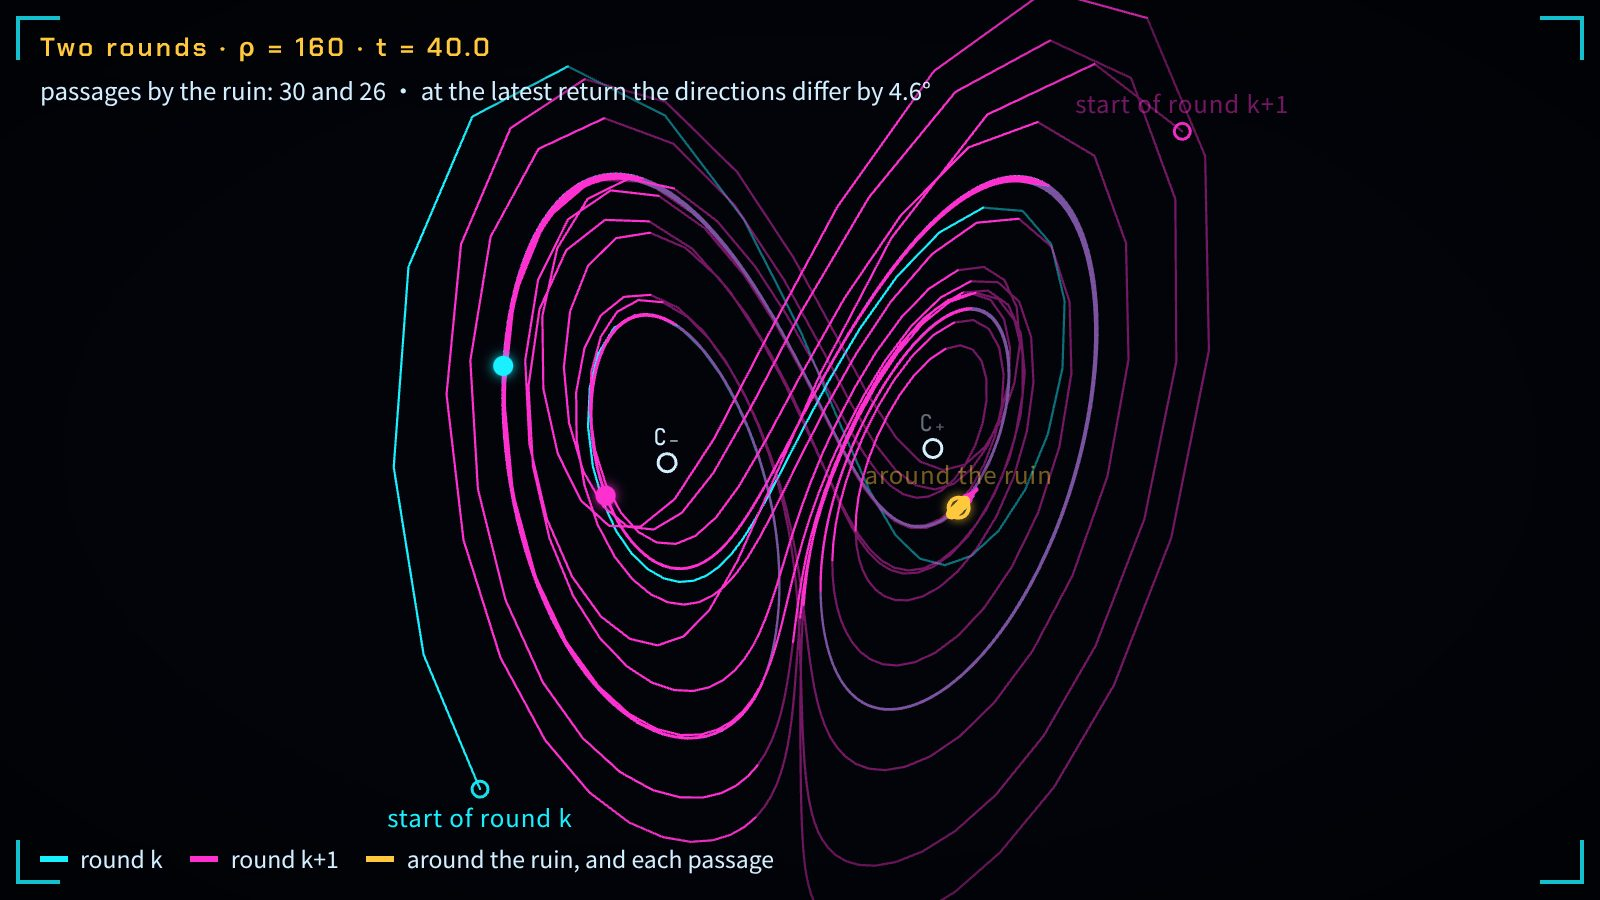
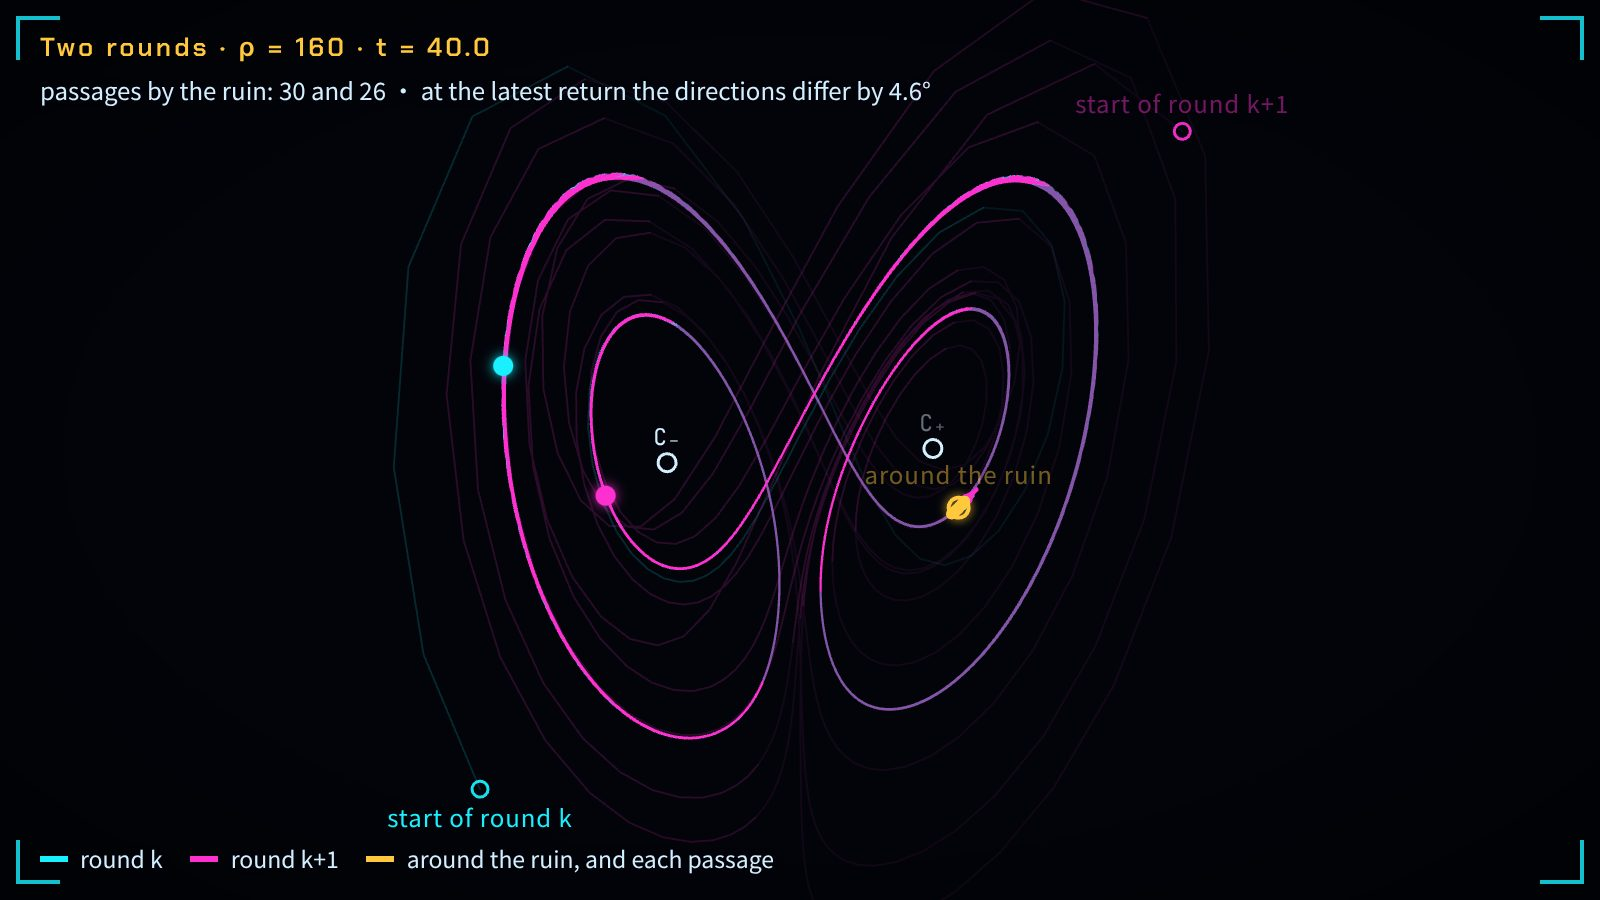
spatial-attractor-deja-vu: fade the transient on the cycle card; test the fixed, cycle and return stills against their captions

diff --git a/books/quantum-geometry/viz/spatial-attractor-deja-vu/main.js b/books/quantum-geometry/viz/spatial-attractor-deja-vu/main.js
@@ -13,7 +13,7 @@
   const { kit, L } = TRV, { fix, clamp } = kit, P = TRV.palette;
   const $ = (id) => document.getElementById(id);
   const SIG = 10, BETA = 8 / 3, H = 0.01, EPS = 2, TR = 40, TS = 2, TD = 100, NP = 500, DIV = -(SIG + 1 + BETA);
-  const S = { scene: 'rounds', rho: 28, seed: 0 };
+  const S = { scene: 'rounds', rho: 28, seed: 0, settle: 0 };   // settle: the time before which the rounds are drawn faint (a card's choice)
   const F = (p, rho) => [SIG * (p[1] - p[0]), p[0] * (rho - p[2]) - p[1], p[0] * p[1] - BETA * p[2]];
   function rk4(p, h, rho) {
     const k1 = F(p, rho), k2 = F([p[0] + h * k1[0] / 2, p[1] + h * k1[1] / 2, p[2] + h * k1[2] / 2], rho), k3 = F([p[0] + h * k2[0] / 2, p[1] + h * k2[1] / 2, p[2] + h * k2[2] / 2], rho), k4 = F([p[0] + h * k3[0], p[1] + h * k3[1], p[2] + h * k3[2]], rho);
@@ -113,7 +113,12 @@
 
   /* ---------- the stage ---------- */
   const st = kit.stage3($('stage'), { canvas: $('cv'), yaw: -0.42, pitch: 0.14, zoom: 1, radius: 0.44, wheel: false, onChange: () => paint() });
-  const trail = (W, pts, upTo, color, width) => { const n = Math.min(pts.length, upTo + 1), out = []; for (let i = 0; i < n; i++) out.push(toStage(W, pts[i])); if (out.length > 1) st.path(out, { color, width, back: 0.45 }); };
+  /** An orbit up to step upTo; the steps before `from` (the transient a card wants out of the way) are drawn faint. */
+  const trail = (W, pts, upTo, color, width, from = 0) => {
+    const n = Math.min(pts.length, upTo + 1), cut = Math.min(n, Math.max(0, from)), out = []; for (let i = 0; i < n; i++) out.push(toStage(W, pts[i]));
+    if (cut > 1) st.path(out.slice(0, cut + (cut < n ? 1 : 0)), { color, width: width * 0.8, back: 0.45, alpha: 0.16 });
+    if (n - cut > 1) st.path(out.slice(cut), { color, width, back: 0.45 });
+  };
   const state = () => {      // what the current frame shows, for the picture, the words and the probe
     const W = world(S.rho);
     if (S.scene === 'rounds') {
@@ -135,7 +140,7 @@
   function drawStage(q) {
     const ctx = st.begin(), W = q.W, words = !TRV.thumbMode;
     if (S.scene === 'rounds') {
-      trail(W, q.R[0].pts, q.i, P.cyan, 1.1); trail(W, q.R[1].pts, q.i, P.magenta, 1.1);
+      const from = Math.round(S.settle / H); trail(W, q.R[0].pts, q.i, P.cyan, 1.1, from); trail(W, q.R[1].pts, q.i, P.magenta, 1.1, from);
       const rp = st.p(toStage(W, W.ruin)), rr = EPS / W.half * st.unit;
       ctx.strokeStyle = P.amber; ctx.lineWidth = 2; ctx.shadowColor = P.amber; ctx.shadowBlur = 10; ctx.beginPath(); ctx.arc(rp[0], rp[1], Math.max(rr, 5), 0, kit.TAU); ctx.stroke(); ctx.shadowBlur = 0;
       q.eq.pts.forEach((e) => st.dot(toStage(W, e.p), 4.5, P.ink, { ring: true, fade: false }));
@@ -271,7 +276,7 @@
     document.querySelectorAll('[data-scenes]').forEach((el) => { el.hidden = !el.dataset.scenes.split(' ').includes(sc); });
     fitClock(t);
   }
-  const leave = () => cards.mark(null);
+  const leave = () => { S.settle = 0; cards.mark(null); };
   const sceneChips = kit.chips($('sceneChips'), 'scene', (v) => { leave(); setScene(v); });
   const rhoChips = kit.chips($('rhoChips'), 'rho', (v) => { S.rho = Number(v); leave(); paint(); });
   $('forgetBtn').addEventListener('click', () => { S.seed += 1; leave(); clock.set(0); clock.play(); });
@@ -282,7 +287,7 @@
   const PRESETS = {
     butterfly: { scene: 'rounds', rho: 28, seed: 0, at: TR, play: true }, forget: { scene: 'rounds', rho: 28, seed: 3, at: TR, play: true }, return: { scene: 'rounds', rho: 28, seed: 0, at: 22 },
     shrink: { scene: 'shrink', rho: 28, at: 1, play: true }, dimension: { scene: 'dimension', rho: 28, at: TD },
-    fixed: { scene: 'rounds', rho: 14, seed: 0, at: TR, play: true }, cycle: { scene: 'rounds', rho: 160, seed: 0, at: TR, play: true }
+    fixed: { scene: 'rounds', rho: 14, seed: 0, at: TR, play: true }, cycle: { scene: 'rounds', rho: 160, seed: 0, at: TR, play: true, settle: 30 }
   };
   const NOTES = {
     butterfly: ['两条轨道从相距很远的两点出发，参数相同。短暂游荡之后，它们落到同一对翅膀上；琥珀色的小点是每次经过遗迹邻域的地方。', 'Two orbits start from two distant points with the same parameters. After a short wander they land on the same pair of wings; the small amber dots mark each passage through the neighbourhood of the ruin.'],
@@ -291,12 +296,12 @@
     shrink: ['500 个点从一个立方体里出发。不到一个时间单位，它们就被压到一张薄片上：体积按 e^(−41t/3) 缩小。', '500 points start inside a cube. In less than one unit of time they are pressed onto a thin sheet: the volume shrinks like e^(−41t/3).'],
     dimension: ['沿一条长轨道估计三个李雅普诺夫指数：一个为正，一个为零，一个约 −14.57。由它们算出的维数约 2.06：比一张面多一点，远不到一块体。', 'Estimate the three Lyapunov exponents along one long orbit: one positive, one zero, one about −14.57. The dimension they give is about 2.06: a little more than a surface, far from a solid.'],
     fixed: ['把参数换成 ρ = 14：两轮各自螺旋落进一个不动点，然后不再动。换了内禀参数，就不是那对翅膀了。', 'Change the parameter to ρ = 14: each round spirals into a fixed point and then stays. With other intrinsic parameters the wings are gone.'],
-    cycle: ['ρ = 160：两轮落到同一条闭合的环上，每一圈都踩在同一处。这是一维的吸引子：重复，但没有余地。', 'ρ = 160: both rounds land on the same closed loop and tread the same place on every lap. This is a one-dimensional attractor: it repeats, with no room to spare.']
+    cycle: ['ρ = 160：两轮落到同一条闭合的环上，每一圈都踩在同一处。t = 30 之前的过渡画得很淡，亮的是最后十个时间单位。这是一维的吸引子：重复，但没有余地。', 'ρ = 160: both rounds land on the same closed loop and tread the same place on every lap. The transient before t = 30 is drawn faint; the bright part is the last ten units of time. This is a one-dimensional attractor: it repeats, with no room to spare.']
   };
   let booting = true;
   function applyPreset(id) {
     const p = PRESETS[id];
-    S.rho = p.rho; rhoChips.set(String(p.rho), true); if (p.seed != null) S.seed = p.seed;
+    S.rho = p.rho; rhoChips.set(String(p.rho), true); if (p.seed != null) S.seed = p.seed; S.settle = p.settle || 0;
     setScene(p.scene, p.at);
     if (!p.play || TRV.still || (booting && !TRV.embed)) return;
     clock.set(0);
@@ -310,7 +315,7 @@
 
   window.ATTRACTOR_DEBUG = {
     get state() {
-      const q = state(), out = { scene: S.scene, t: clock.t, max: clock.max, playing: clock.playing, preset: cards.current, rho: S.rho, seed: S.seed, ruin: q.W.ruin.slice(), half: q.W.half, eps: EPS, div: DIV };
+      const q = state(), out = { scene: S.scene, t: clock.t, max: clock.max, playing: clock.playing, preset: cards.current, rho: S.rho, seed: S.seed, settle: S.settle, ruin: q.W.ruin.slice(), half: q.W.half, eps: EPS, div: DIV };
       if (S.scene === 'rounds') Object.assign(out, { counts: q.counts, cos: q.cos, angle: q.angle, gap: q.gap, now: q.now, starts: q.R.map((r) => r.start), visits: q.R.map((r) => r.visits.map((v) => ({ t: v.t, d: v.d, dir: v.dir }))),
         ret: q.ret && { ta: q.ret.a.t, tb: q.ret.b.t, sep: q.ret.sep, dirs: [q.ret.a.dir, q.ret.b.dir] }, equilibria: q.eq.pts.map((e) => ({ name: e.name, p: e.p.slice() })), eig: q.eq.eig, unstable: q.eq.unstable, focus: q.eq.focus,
         labels: [...document.querySelectorAll('#stage .tag')].filter((t) => !t.hidden && /^C[₊₋]$/.test(t.textContent.trim())).map((t) => t.textContent.trim()) });
@@ -323,7 +328,7 @@
     point: (k, i) => rounds(world(S.rho), S.seed)[k].pts[i],
     cloudPoint: (k, f) => cloud(world(S.rho)).frames[f][k]
   };
-  window.TRV_THUMB = () => { S.rho = 28; S.seed = 0; rhoChips.set('28', true); st.cam.zoom = 1.25; setScene('rounds', TR); paint.now(); };
+  window.TRV_THUMB = () => { S.rho = 28; S.seed = 0; S.settle = 0; rhoChips.set('28', true); st.cam.zoom = 1.25; setScene('rounds', TR); paint.now(); };
   cards.pick(cards.initial('butterfly'));
   booting = false;
   paint();
